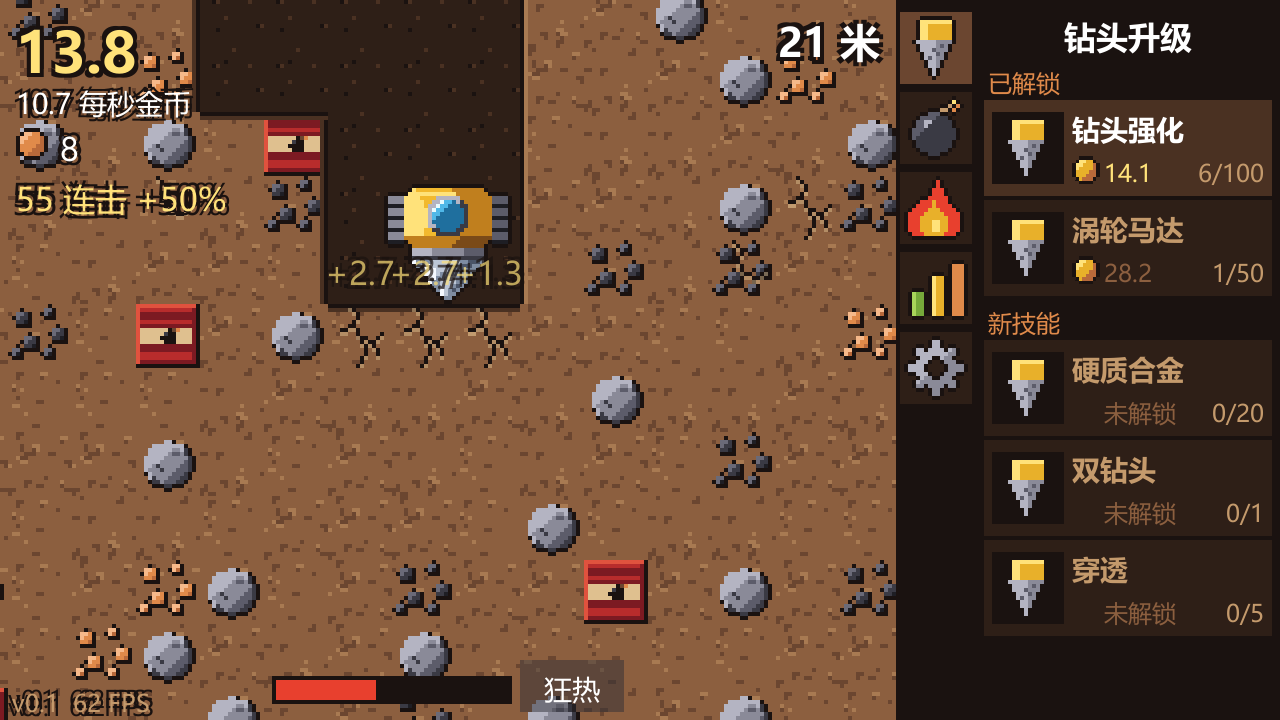
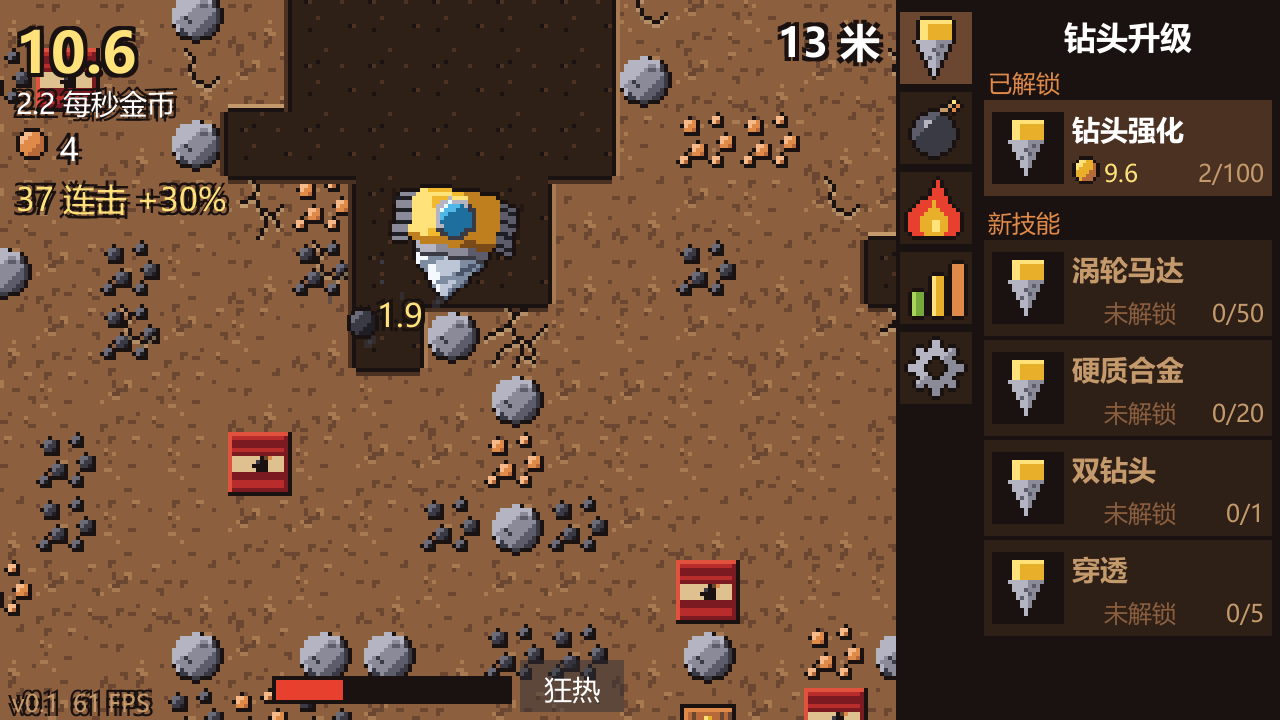
Report save round trip field by field

diff --git a/Assets/Scripts/Game/DemoDriver.cs b/Assets/Scripts/Game/DemoDriver.cs
@@ -87,14 +87,19 @@ namespace DeepDrill.Game
             var live = root.Sim.State;
             root.SaveNow();
             var loaded = root.Saves.Load();
-            bool same = loaded.depth == live.depth && loaded.coins == live.coins && loaded.seed == live.seed
-                && loaded.drillX == live.drillX && loaded.drillY == live.drillY
+            bool same = loaded.depth == live.depth && Close(loaded.coins, live.coins) && loaded.seed == live.seed
+                && Close(loaded.drillX, live.drillX) && Close(loaded.drillY, live.drillY)
                 && loaded.skills.Count == live.skills.Count && loaded.version == GameState.CurrentVersion;
+            Debug.Log($"[demo] coins {live.coins:R}/{loaded.coins:R} x {live.drillX:R}/{loaded.drillX:R} " +
+                $"y {live.drillY:R}/{loaded.drillY:R} skills {live.skills.Count}/{loaded.skills.Count}");
             double before = loaded.coins;
             double offline = new GameSim(loaded).ApplyOffline(loaded.lastSaveUnixSeconds + 3600);
             Debug.Log($"[demo] save roundtrip same={same} depth={loaded.depth} incomePerSec={loaded.incomePerSecond:0.00} " +
                 $"offline1h={offline:0.0} coins {before:0.0}->{loaded.coins:0.0}");
         }
+
+        // JsonUtility may round a double's last digit; anything larger is a real loss
+        private static bool Close(double a, double b) => System.Math.Abs(a - b) <= System.Math.Abs(a) * 1e-12;
 
         private void Play()
         {
